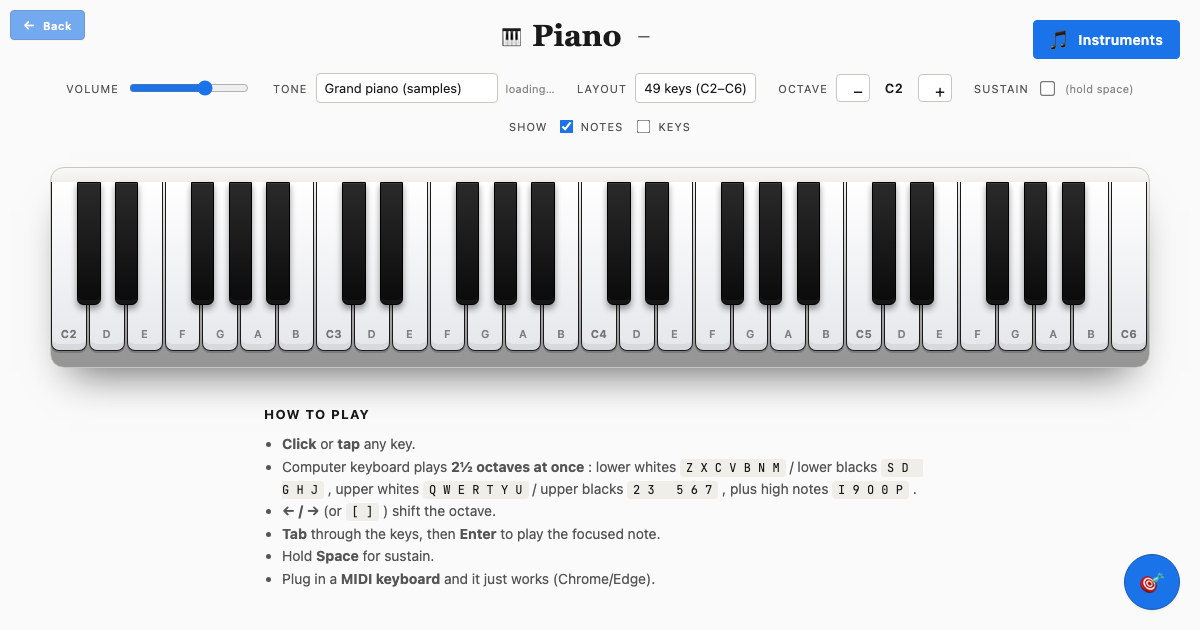
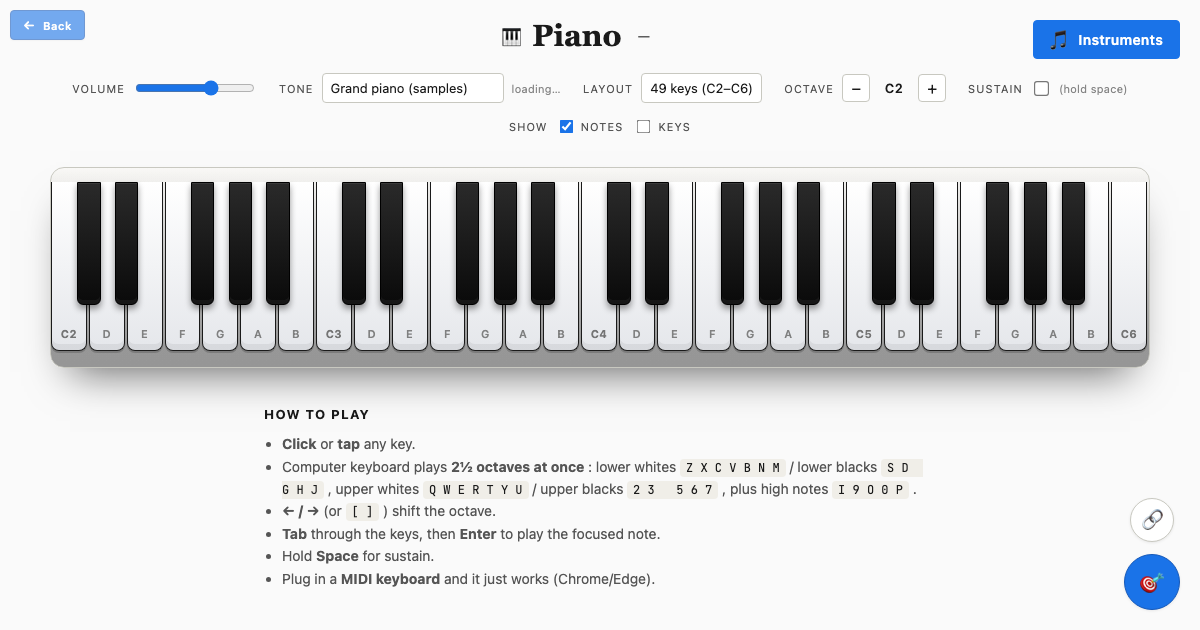
button styling

diff --git a/play/styles/chrome.css b/play/styles/chrome.css
@@ -240,12 +240,16 @@
 }
 
 .octave-buttons button {
+  display: inline-flex;
+  align-items: center;
+  justify-content: center;
   background: var(--surface-1);
   color: var(--fg);
   border: 1px solid var(--border);
   border-radius: var(--radius);
   width: 28px;
   height: 28px;
+  padding: 0;
   font-size: 16px;
   line-height: 1;
   cursor: pointer;
